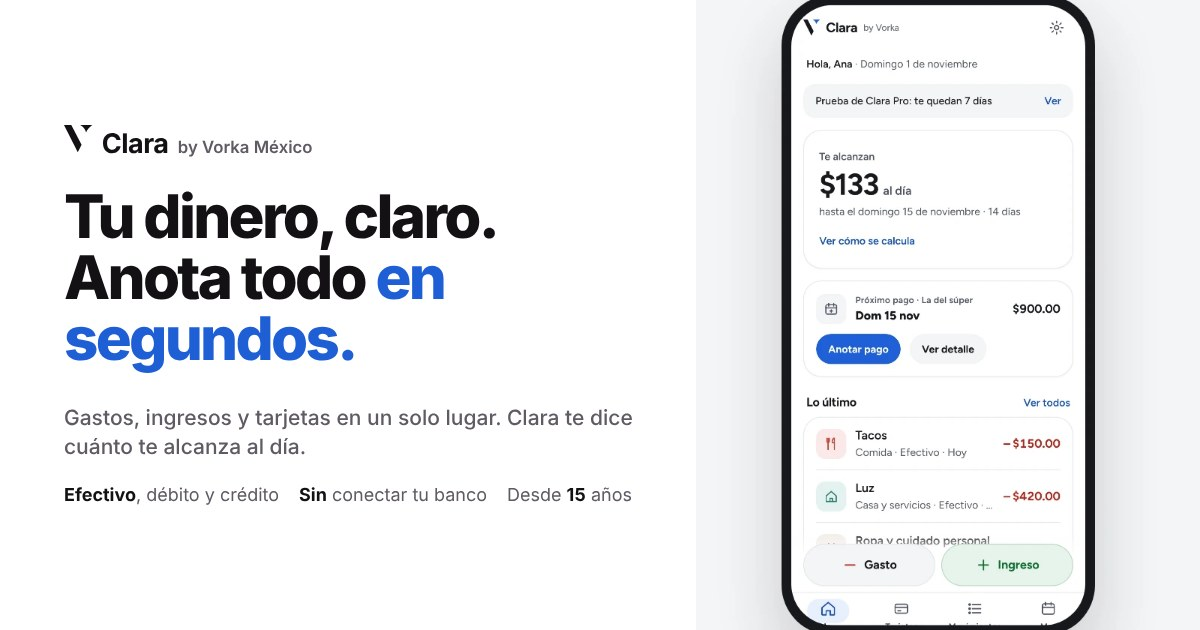
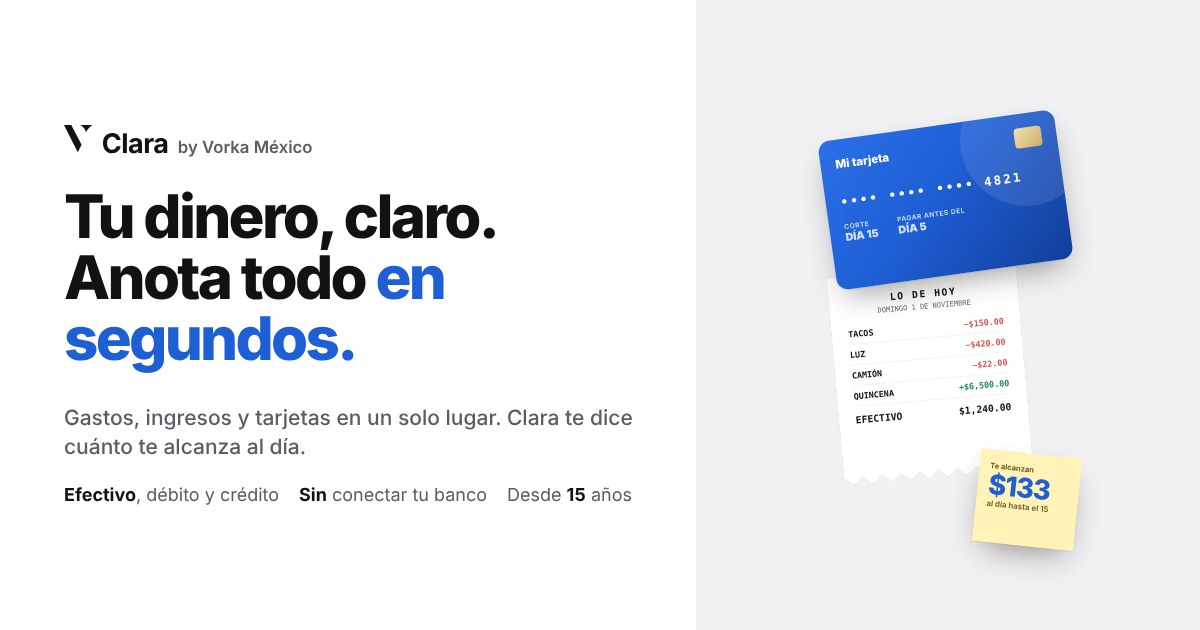
Portada de Clara con objetos reales (sin celular), como las demás
Su tarjeta con día de corte y de pago, el ticket «Lo de hoy» con gastos e ingreso y la nota «Te alcanzan $133 al día», en el azul de Clara.

Claude-Session: https://claude.ai/code/session_01FQxamP3FhitHsYnBxtcnKF

Changed region(s): [[0.6475, 0.0, 0.925, 1.0]]

diff --git a/_tienda/simulador/portadas_v4.py b/_tienda/simulador/portadas_v4.py
@@ -2,7 +2,7 @@
 # a la izquierda, en blanco, «V Producto by Vorka México», un titular en tinta con una sola frase en el color del producto,
 # una línea de apoyo y tres datos; a la derecha, en gris claro, el celular derecho con la pantalla real del producto.
 # Mismas pantallas y datos que portadas_v3.py (solo lo que ya dicen la descripción oficial o el banco de cada producto).
-# Clara: conserva su celular (diseño final de la app), recortado de su portada actual; solo se rehace la marca y el texto.
+# Clara: también con objetos (su tarjeta con corte y pago, el ticket del día y lo que alcanza), en su azul.
 # Uso: python3 _tienda/simulador/portadas_v4.py → assets/tienda/v3/<producto>-portada.webp y <producto>-og.jpg (mismas rutas)
 #      SOLO=vuelve,cupo para algunas.
 import os, pathlib, base64, io
@@ -194,7 +194,24 @@ def obj_kit(k):
     lista = ''.join(f'<div style="display:flex;gap:12px;align-items:center;margin-top:16px;font:650 20px Inter,sans-serif"><span style="width:28px;height:28px;border-radius:8px;background:{color};color:#fff;display:grid;place-items:center;font-size:15px">{i + 1}</span>{t}</div>' for i, t in enumerate(partes))
     return hoja_papel(150, 230, 440, 600, 7, '<div class="l" style="height:12px;border-radius:6px;background:#ECEAE6;margin:12px 0;width:70%"></div>' * 14, '#F7F5F0') + hoja_papel(60, 280, 480, 640, -4, eti(color, 'Vorka México · Kit digital') + f'<div style="font:850 46px/1.02 Inter,sans-serif;letter-spacing:-.04em;margin:14px 0 10px">{titulo}</div>' + lista, '#FDFCF9')
 
-OBJETOS = {'brindi': obj_brindi, 'vuelve': obj_vuelve, 'cupo': obj_cupo, 'agenda': obj_agenda, 'cuentas': obj_cuentas, 'vende': obj_vende, 'ruta-de-impacto': obj_ruta,
+def obj_clara():
+    # Clara: lo que se anota en ella, como objetos reales: una tarjeta con su corte y su pago, el ticket del día y lo que alcanza
+    gastos = ''.join(f'<div style="display:flex;justify-content:space-between;padding:12px 0;border-bottom:1px dashed #D9D6DE;font:600 19px ui-monospace,Menlo,monospace"><span>{n}</span><b style="color:{c}">{m}</b></div>' for n, m, c in [('TACOS', '−$150.00', '#D9534F'), ('LUZ', '−$420.00', '#D9534F'), ('CAMIÓN', '−$22.00', '#D9534F'), ('QUINCENA', '+$6,500.00', '#1E8A5A')])
+    return f"""
+<div style="position:absolute;left:80px;top:500px;width:430px;height:470px;background:#FFFFFE;border-radius:6px 6px 0 0;transform:rotate(-5deg);{SOMBRA};padding:40px 38px 0;color:#141114;clip-path:polygon(0 0,100% 0,100% 96%,95% 100%,90% 96%,85% 100%,80% 96%,75% 100%,70% 96%,65% 100%,60% 96%,55% 100%,50% 96%,45% 100%,40% 96%,35% 100%,30% 96%,25% 100%,20% 96%,15% 100%,10% 96%,5% 100%,0 96%)">
+  <div style="text-align:center;font:800 22px ui-monospace,Menlo,monospace;letter-spacing:.16em">LO DE HOY</div>
+  <div style="text-align:center;font:500 16px ui-monospace,Menlo,monospace;color:#6D696E;margin:6px 0 16px">DOMINGO 1 DE NOVIEMBRE</div>{gastos}
+  <div style="display:flex;justify-content:space-between;margin-top:18px;font:800 22px ui-monospace,Menlo,monospace"><span>EFECTIVO</span><span>$1,240.00</span></div></div>
+<div style="position:absolute;left:60px;top:170px;width:540px;height:340px;border-radius:26px;transform:rotate(-8deg);{SOMBRA};background:linear-gradient(135deg,#2B6FE8,#1F5FD6 45%,#123E99);color:#fff;padding:32px 34px;overflow:hidden">
+  <div style="position:absolute;right:-80px;top:-90px;width:300px;height:300px;border-radius:50%;background:rgba(255,255,255,.10)"></div>
+  <div style="display:flex;justify-content:space-between;align-items:center"><b style="font:800 26px Inter,sans-serif">Mi tarjeta</b><span style="width:62px;height:46px;border-radius:9px;background:linear-gradient(135deg,#F3DFA0,#C8A45C)"></span></div>
+  <div style="font:600 28px ui-monospace,Menlo,monospace;letter-spacing:.18em;margin-top:48px">•••• •••• •••• 4821</div>
+  <div style="display:flex;gap:46px;margin-top:30px;font:600 15px Inter,sans-serif;letter-spacing:.08em;text-transform:uppercase;opacity:.8"><span>Corte<br><b style="font-size:24px;letter-spacing:0;opacity:1">día 15</b></span><span>Pagar antes del<br><b style="font-size:24px;letter-spacing:0">día 5</b></span></div></div>
+<div style="position:absolute;left:400px;top:915px;width:230px;height:210px;background:#FFF3B8;transform:rotate(6deg);{SOMBRA};padding:26px 24px;color:#141114">
+  <div style="font:700 17px Inter,sans-serif;color:#6D5A1E">Te alcanzan</div><div style="font:850 62px/1.05 Inter,sans-serif;letter-spacing:-.04em;color:#1F5FD6">$133</div>
+  <div style="font:600 18px Inter,sans-serif;color:#6D5A1E">al día hasta el 15</div></div>"""
+
+OBJETOS = {'clara': obj_clara, 'brindi': obj_brindi, 'vuelve': obj_vuelve, 'cupo': obj_cupo, 'agenda': obj_agenda, 'cuentas': obj_cuentas, 'vende': obj_vende, 'ruta-de-impacto': obj_ruta,
   'test-vocacional': obj_vocacional, 'que-proyecto-social': obj_proyecto, 'evaluacion-liderazgo': obj_liderazgo, 'toolkit': obj_toolkit, 'portales': obj_portales,
   'toolkit-pro': lambda: obj_toolkit('$1,800', '$1,199', 'Toolkit Pro', 'linear-gradient(140deg,#14141F,#3E3A66)', '#F2CF7E'),
   'idea-en-orden': lambda: obj_kit('idea-en-orden'), 'idea-negocio': lambda: obj_kit('idea-negocio'),
@@ -230,9 +247,7 @@ def lienzo(k, w, h):
     og = h < 1000
     pw = int(w * (.42 if og else .42))   # ancho del panel gris
     ui, extra = visual(k)
-    if k == 'clara':
-        der = f'<img src="{panel_clara()}" style="position:absolute;right:0;top:0;height:{h}px;width:{pw}px;object-fit:cover;object-position:center">'
-    elif isinstance(ui, tuple):
+    if isinstance(ui, tuple):
         esc = h / 1200
         z = esc * .84   # los objetos van más chicos que el panel, centrados, para que nunca se corten
         der = f'<div style="position:absolute;left:{w - pw + (pw - 672 * z) / 2}px;top:{(h - 1200 * z) / 2}px;width:672px;height:1200px;transform:scale({z});transform-origin:top left">{ui[1]}</div>'
@@ -275,7 +290,6 @@ with sync_playwright() as pw:
         im.save(OUT / f'{nombre}.{ext}', 'JPEG' if ext == 'jpg' else 'WEBP', quality=88, **({} if ext == 'jpg' else {'method': 6}))
         png.unlink(); print('·', OUT / f'{nombre}.{ext}')
     SOLO = [x for x in os.environ.get('SOLO', '').split(',') if x]
-    panel_clara()   # se lee antes de reemplazar la portada de Clara
     for k in V4:
         if SOLO and k not in SOLO: continue
         foto(f'{k}-portada', lienzo(k, 1600, 1200), 1600, 1200)
